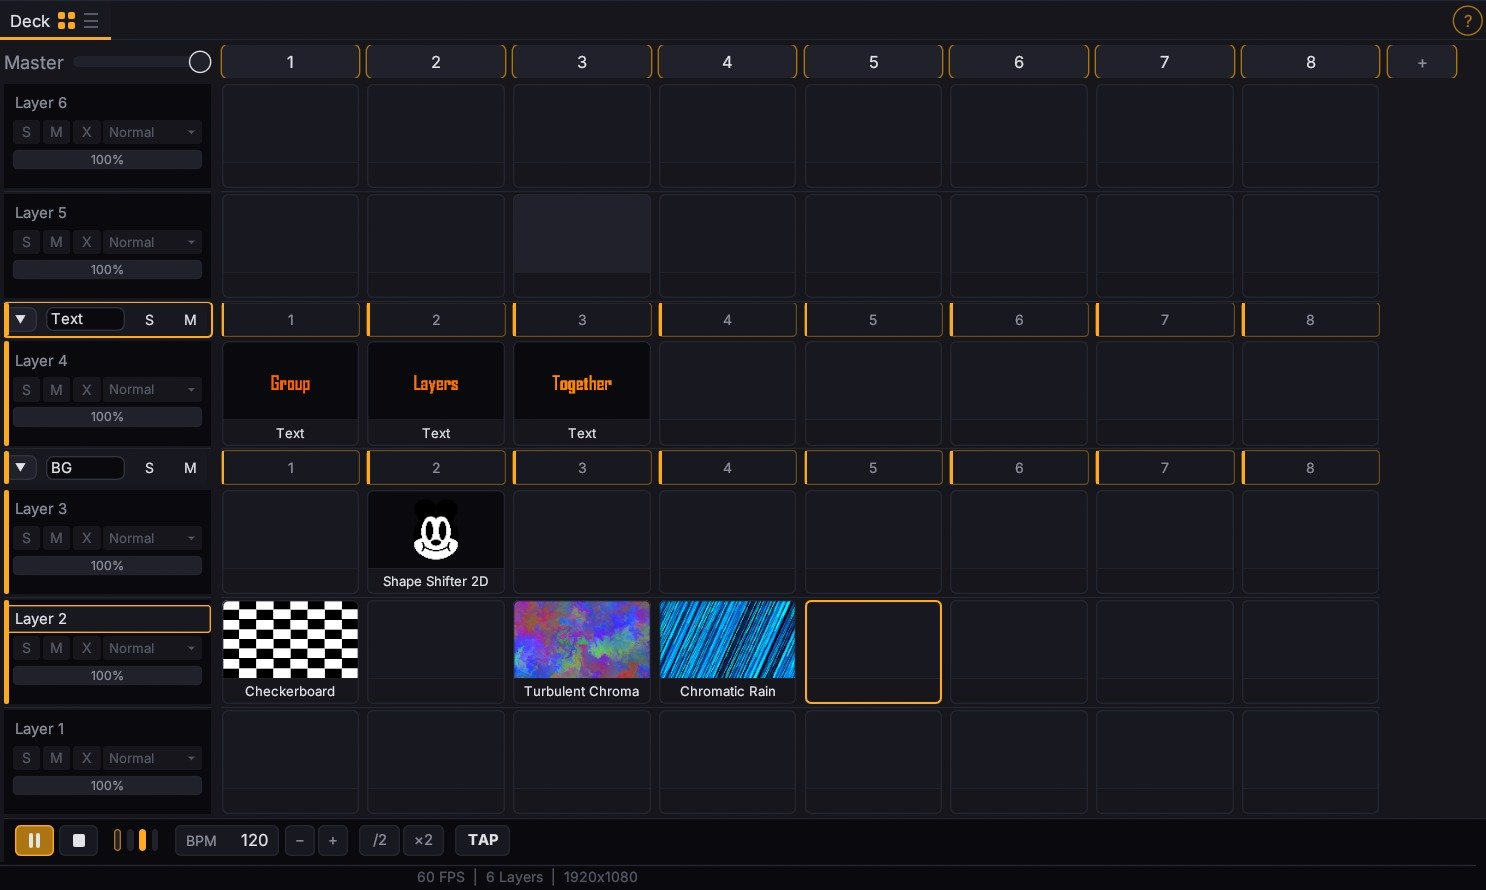
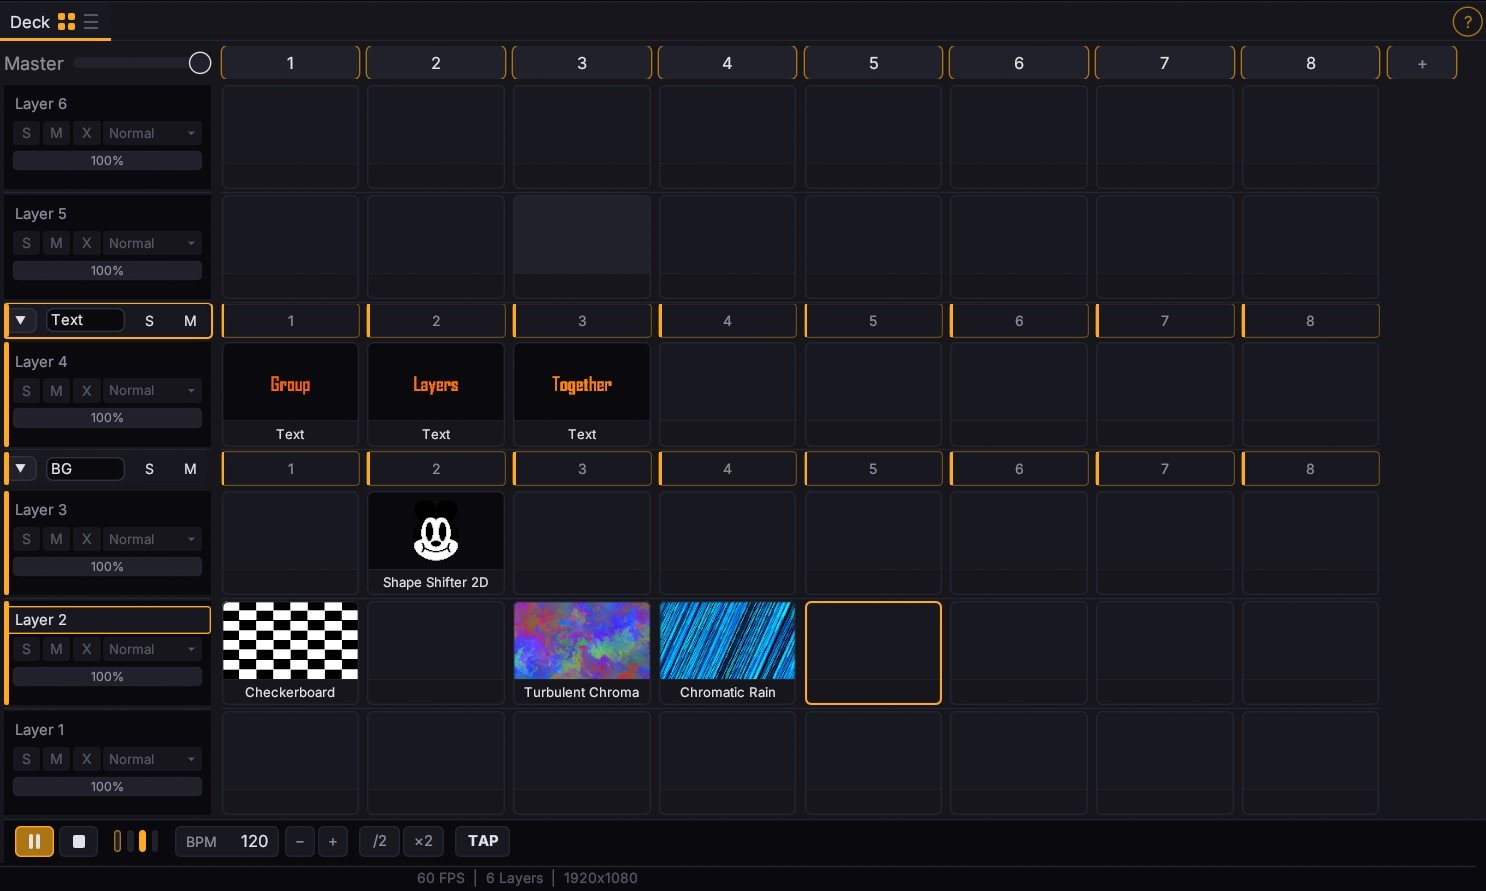
Update groups screenshot to corrected capture

diff --git a/features.html b/features.html
@@ -318,7 +318,7 @@
           </p>
         </div>
         <figure class="showcase__visual showcase__visual--image showcase__visual--contain">
-          <img src="assets/showcase-groups.jpg" width="1486" height="890" alt="The Fluence layer deck showing layers grouped together, with the group exposing its own opacity, blend mode, and effect chain controls." loading="lazy" />
+          <img src="assets/showcase-groups.jpg" width="1486" height="891" alt="The Fluence layer deck showing layers grouped together, with the group exposing its own opacity, blend mode, and effect chain controls." loading="lazy" />
         </figure>
       </div>
     </div>